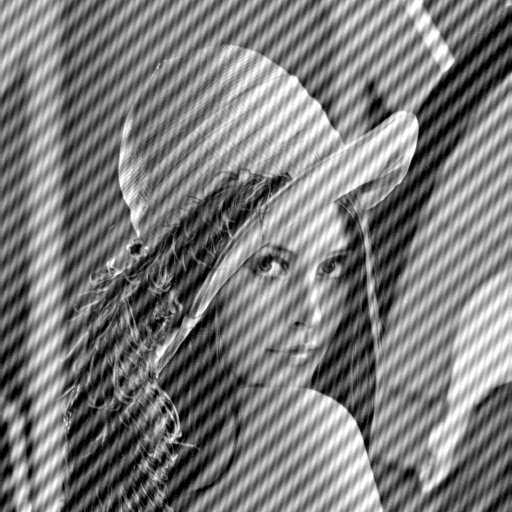
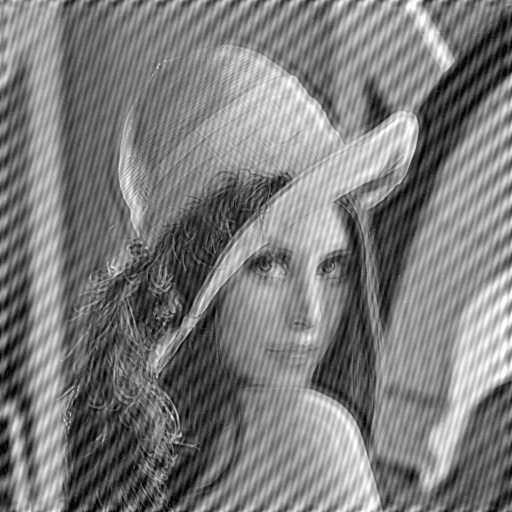
report

diff --git a/README.md b/README.md
@@ -43,3 +43,11 @@
 ![](screen_shots/image_18.png)
 ## 11. move to "add periodic noise and remove it" tab.
 ![](screen_shots/image_19.png)
+## 12. press "add periodic noise button".
+![](screen_shots/image_20.png)
+## 13. select type of filter that you want to remove periodic noise from the combo box.
+![](screen_shots/image_21.png)
+## 14. if you choose band reject filter, the filtered image and its fourier will be displayed for you.
+![](screen_shots/image_22.png)
+## 15. if you choose mask method for remove periodic noise, the pop window, contains the fourier of the periodic noise image, will display for you.
+![](screen_shots/image_23.png)
